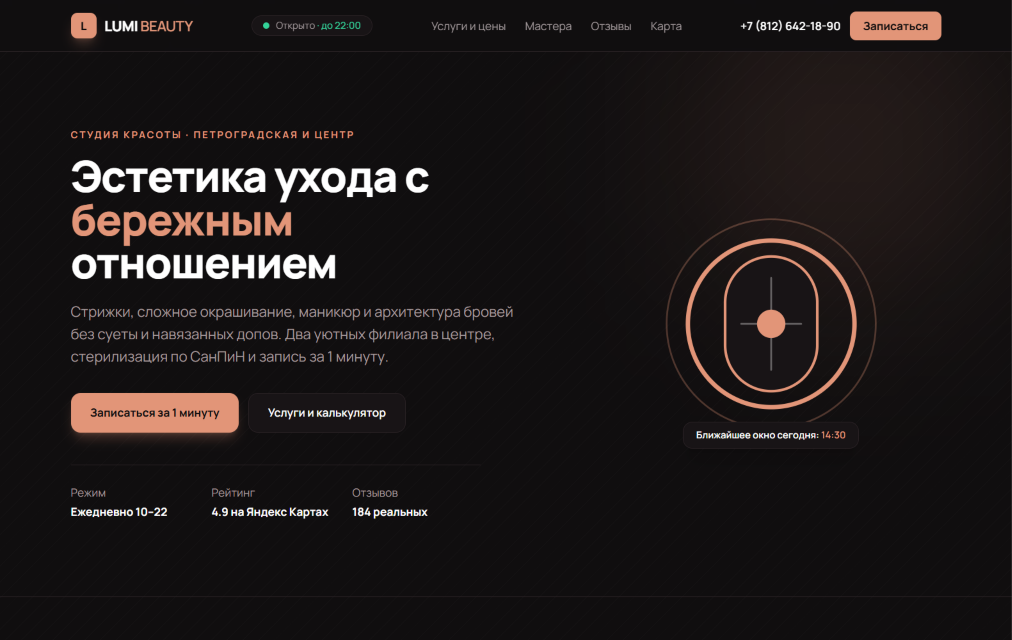
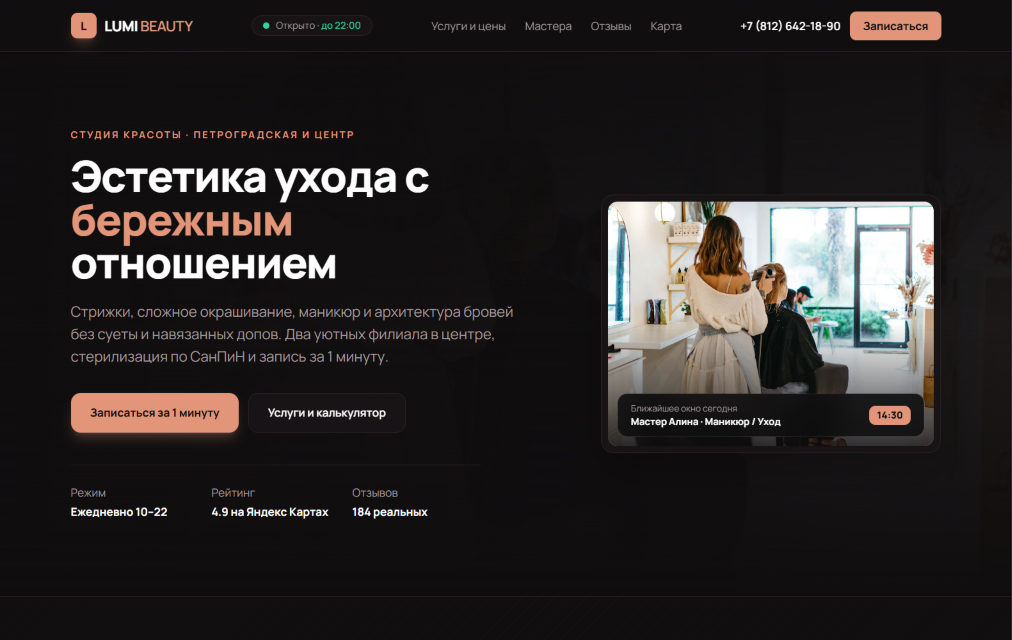
Update portfolio previews with real interior photos

Changed region(s): [[0.582, 0.3125, 0.9496, 0.7188], [0.2757, 0.625, 0.3676, 0.6562]]

diff --git a/index.html b/index.html
@@ -916,7 +916,7 @@
                 </div>
                 <div class="aspect-[16/10] w-full overflow-hidden bg-bg">
                   <img
-                    src="case-beauty-preview.png?v=2"
+                    src="case-beauty-preview.png?v=3"
                     alt="Превью сайта Салон красоты LUMI"
                     class="h-full w-full object-cover object-top transition-transform duration-500 ease-out group-hover:scale-[1.03]"
                     loading="lazy"
@@ -964,7 +964,7 @@
                 </div>
                 <div class="aspect-[16/10] w-full overflow-hidden bg-bg">
                   <img
-                    src="case-repair-preview.png?v=2"
+                    src="case-repair-preview.png?v=3"
                     alt="Превью сайта Ремонт техники FIXLAB"
                     class="h-full w-full object-cover object-top transition-transform duration-500 ease-out group-hover:scale-[1.03]"
                     loading="lazy"
@@ -1012,7 +1012,7 @@
                 </div>
                 <div class="aspect-[16/10] w-full overflow-hidden bg-bg">
                   <img
-                    src="case-fitness-preview.png?v=2"
+                    src="case-fitness-preview.png?v=3"
                     alt="Превью сайта Фитнес-клуб IRONBASE"
                     class="h-full w-full object-cover object-top transition-transform duration-500 ease-out group-hover:scale-[1.03]"
                     loading="lazy"
